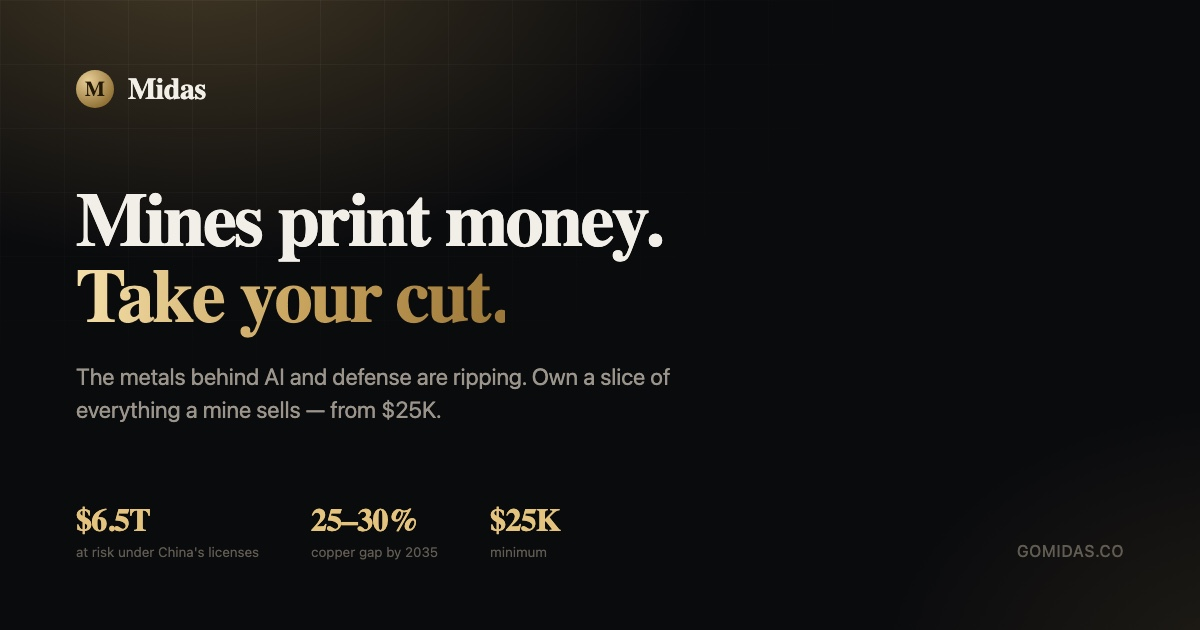
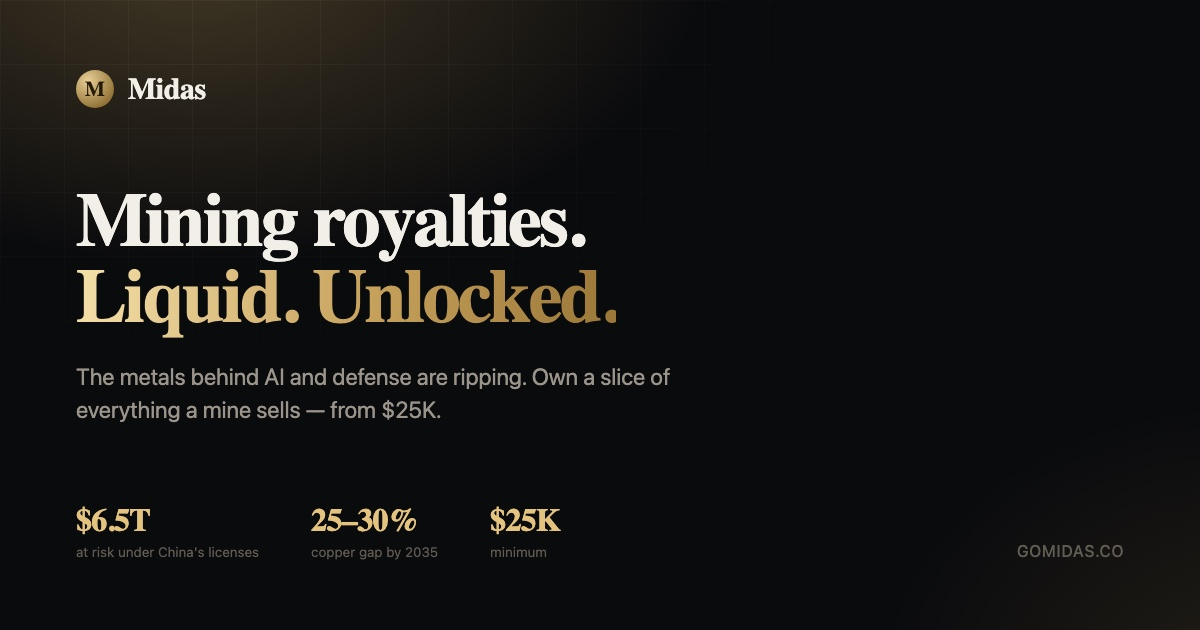
Headline: 'Mining royalties. Liquid. Unlocked.'

Changed region(s): [[0.0617, 0.3016, 0.555, 0.5429]]

diff --git a/index.html b/index.html
@@ -4,7 +4,7 @@
 <meta charset="utf-8" />
 <meta name="viewport" content="width=device-width, initial-scale=1" />
 <meta name="description" content="Midas is building the first market for mining royalties — a claim on a mine's revenue, registered against the licence, underwritten one asset at a time and opened to qualified investors from $25,000." />
-<meta property="og:title" content="Mines print money. Take your cut." />
+<meta property="og:title" content="Mining royalties. Liquid. Unlocked." />
 <meta property="og:description" content="The metals behind AI and defense are the next wave. Midas sells fractions of mine royalties — a cut of everything a mine sells, paid before anyone else. From $25,000." />
 <meta property="og:image" content="https://gomidas.co/og-image.jpg" />
 <meta property="og:image:width" content="1200" />
@@ -14,7 +14,7 @@
 <meta property="og:type" content="website" />
 <meta property="og:site_name" content="Midas" />
 <meta name="twitter:card" content="summary_large_image" />
-<meta name="twitter:title" content="Mines print money. Take your cut." />
+<meta name="twitter:title" content="Mining royalties. Liquid. Unlocked." />
 <meta name="twitter:description" content="Mining royalties, underwritten one at a time and opened to qualified investors." />
 <meta name="twitter:image" content="https://gomidas.co/og-image.jpg" />
 <link rel="canonical" href="https://gomidas.co/" />
@@ -599,7 +599,7 @@
   <div class="heroA">
     <div class="ha-copy">
       <span class="pill rv in"><i></i>The Pentagon just bought a mine</span>
-      <h1>Mines print money. <span class="g">Take your cut.</span></h1>
+      <h1>Mining royalties. <span class="g">Liquid. Unlocked.</span></h1>
       <p class="hero-sub">The metals behind AI and defense are ripping — and the Pentagon is buying in. Midas cuts you in: a slice of everything a mine sells, paid before anyone else. From $25K.</p>
       <div class="hero-cta" style="justify-content:flex-start;margin-top:30px">
         <a href="#access" class="btn btn-gold">Request access</a>
